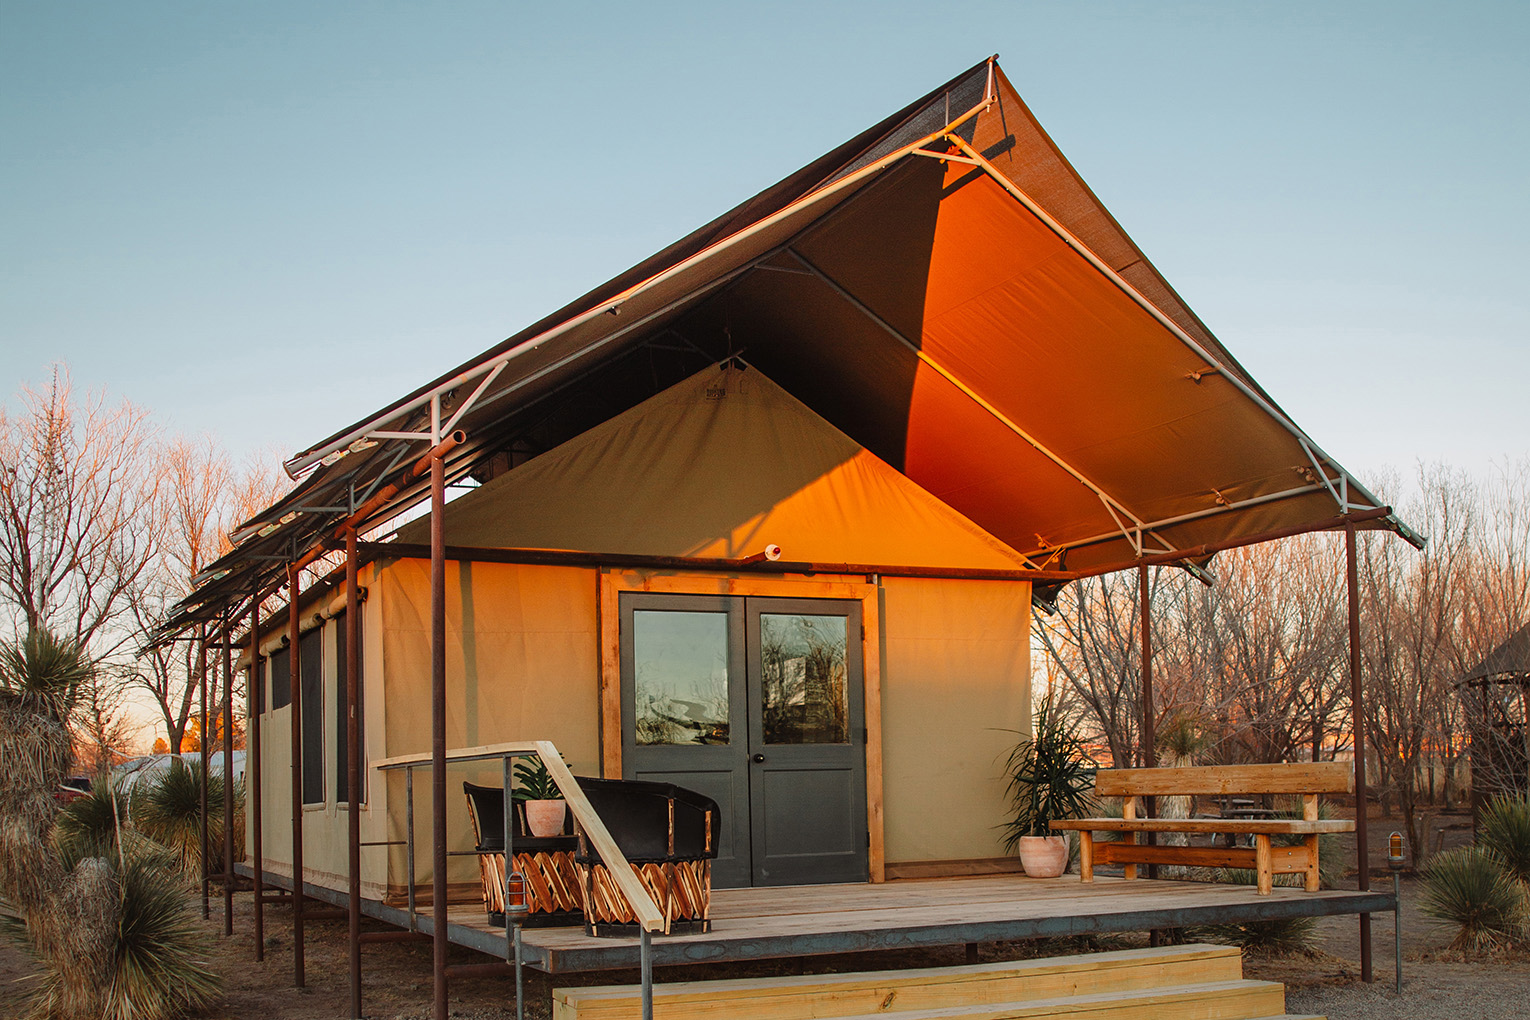
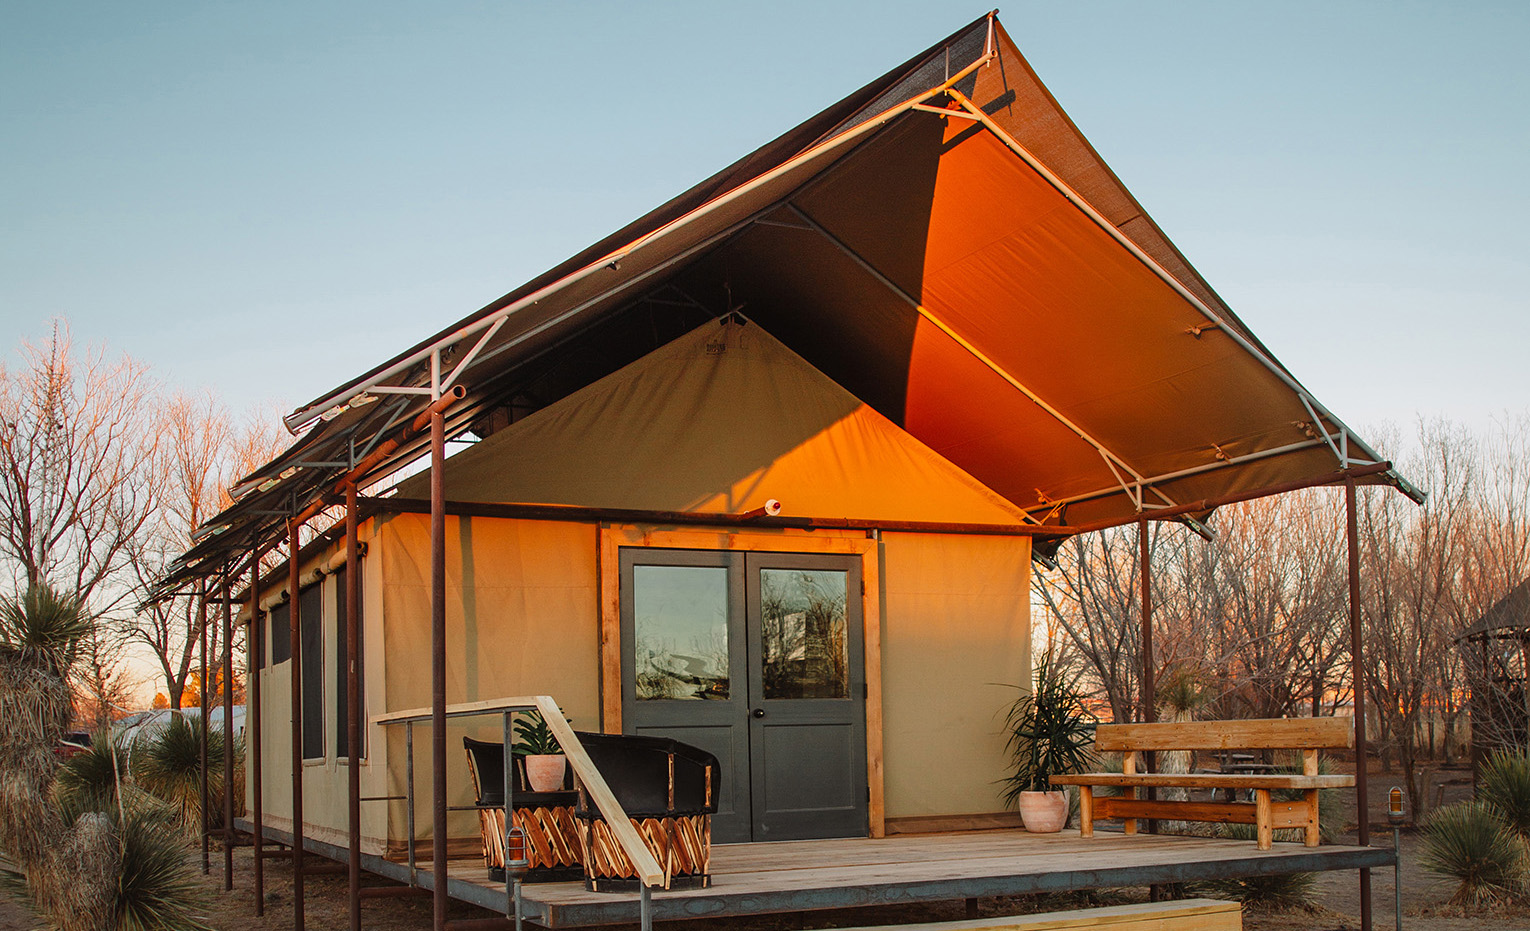
image grid layout

diff --git a/css/app.css b/css/app.css
@@ -6805,7 +6805,7 @@ body {
   border-radius: 100%; }
 
 .gallery {
-  height: 400px;
+  height: 100%;
   object-fit: cover; }
 
 #book {

diff --git a/scss/custom.scss b/scss/custom.scss
@@ -31,7 +31,7 @@ body {
 }
 
 .gallery {
-    height: 400px;
+    height: 100%;
     object-fit: cover;
 }
 
